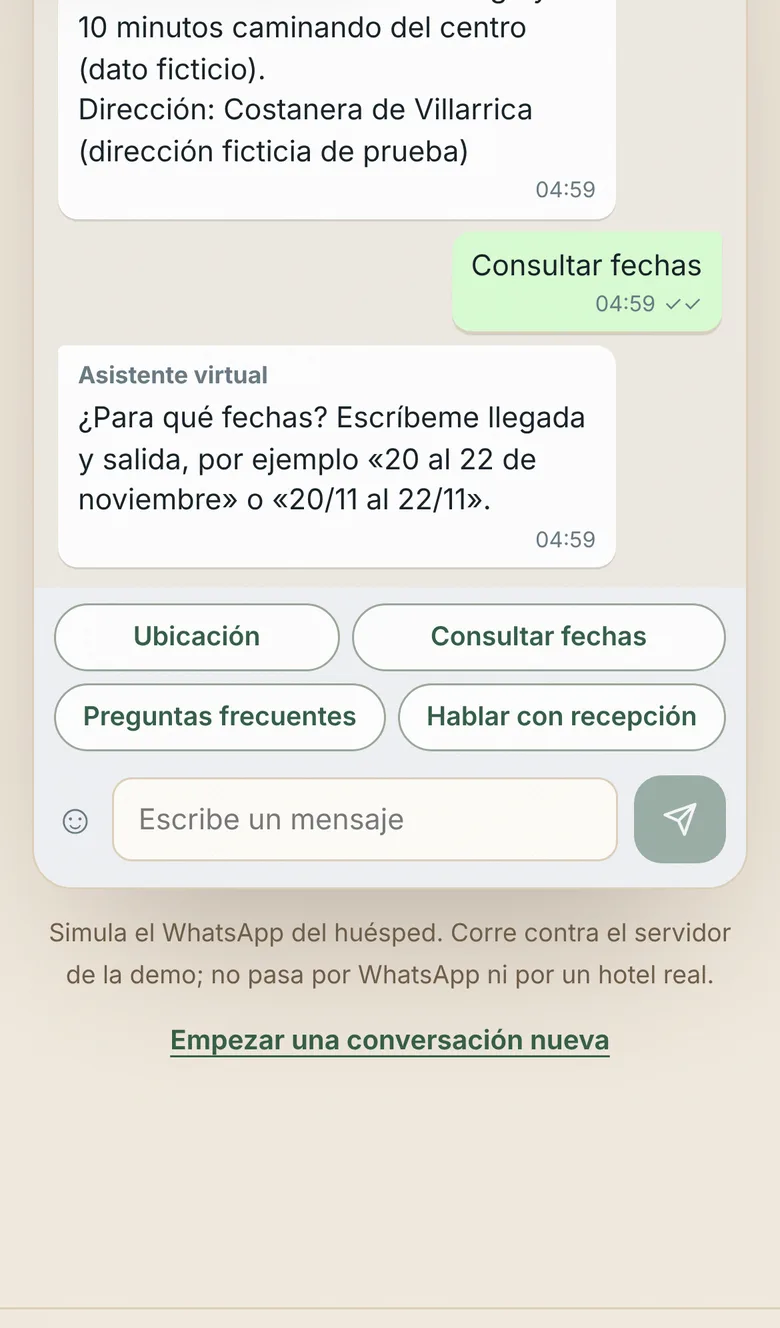
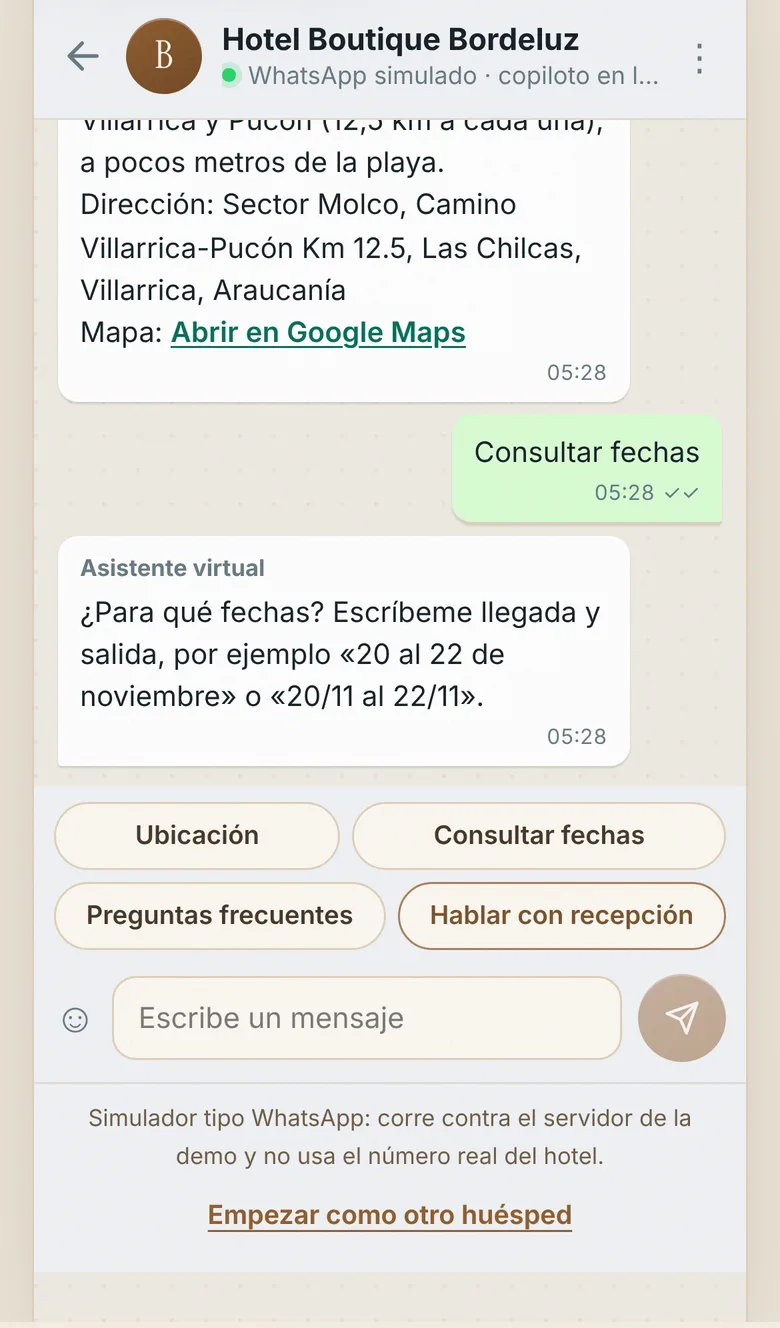
docs(eva3): guion, API y verificación con el hotel de la portada
Actualiza el guion (parte en «Probar la demo»), el contrato de la API,
la verificación D01–D10 (incluye la restauración de los puentes y los
conteos reales) y las capturas de la demo.

diff --git a/docs/eva3/verificacion-demo.md b/docs/eva3/verificacion-demo.md
@@ -1,46 +1,50 @@
 # Verificación de la demo · EVA 3 (D01–D10)
 
-Fecha de la verificación: 8-nov-2026. Rama `refactor/ux-logic-cleanup`. Alojamiento: **Hostería Demo
-Villarrica** (ficticio). Todos los datos de esta verificación son de prueba.
+Fecha: 8-nov-2026. Rama `refactor/ux-logic-cleanup`. La demo usa la misma marca y los mismos datos que la portada:
+**Hotel Boutique Bordeluz** (`data/hotel.yaml`) y el **PMS simulado** (`pms_mock`). Los huéspedes son ficticios y
+los cupos y precios del PMS son simulados.
 
 **Criterio central:** un huésped crea una consulta válida, recepción la toma con todo su contexto y una
 respuesta escrita por recepción llega al hilo original, con estados, persistencia y mediciones coherentes.
-**Resultado: cumple** en el arranque local con flujo guiado (detalle abajo). Lo no verificado está marcado.
+**Resultado: cumple** en el arranque local con flujo guiado. Lo no verificado está marcado al final de la sección 2.
 
-Tipos de evidencia: **[código]** lectura de código · **[auto]** prueba automatizada · **[UI]** recorrido real
-en navegador (Chromium con Playwright, ventanas de escritorio 1440 px y teléfono iPhone 13) · **[HTTP]**
-llamadas a las rutas locales.
+Evidencia: **[código]** lectura de código · **[auto]** prueba automatizada · **[UI]** recorrido real en
+navegador (Chromium con Playwright, escritorio 1440 px y iPhone 13) · **[HTTP]** llamadas a las rutas locales.
 
 ## 1. Primer punto de falla (antes de los cambios)
 
 Arranque: copiloto con `uv run uvicorn` en `:8100`, `AI_MODE=off` (Docker sin daemon en el entorno).
 Caso canónico por `POST /api/demo/chat` **[HTTP]**:
 
-1. «¿Dónde queda la hostería?» → respuesta de ubicación (datos del hotel real del dataset, no ficticio).
+1. «¿Dónde queda el hotel?» → respuesta de ubicación correcta.
 2. «Quiero consultar del 20 al 22 de noviembre para 2 adultos» → **falla**: «No tengo ese dato publicado.
-   Para confirmarlo, escribe a recepción: +56 9… o comercial@…» (contacto real del hotel).
+   Para confirmarlo, escribe a recepción: +56 9… o comercial@…», es decir, el contacto real del hotel.
 3. «Hablar con recepción» → misma respuesta: **no deriva**. `GET /api/panel/queue` muestra la conversación en
    `step: ai`, sin reloj ni solicitud.
 
 Causa: `/api/demo/chat` sin IA usaba `guided.guided_reply` (solo FAQ y ubicación), no el motor guiado
-`flow.Copiloto` que sí captura fechas y deriva. La demo y el canal de Chatwoot eran dos lógicas distintas.
+`flow.Copiloto` que sí captura fechas, lee el PMS y deriva. La demo y el canal de Chatwoot eran dos lógicas.
 
 ## 2. Matriz antes / después
 
 | ID | Antes | Después | Evidencia (después) |
 |---|---|---|---|
-| **D01** Arranque reproducible | Parcial: `make up` exige Docker; sin daemon no hay ruta documentada | **Cumple** sin Docker; Docker **no verificable** aquí | [UI] `./scripts/demo-local.sh --limpio` levanta `:8100` y `:8080`; `/health` ok; `demo.html` 200. `docker compose … config -q` válido. `make up` no se ejecutó (sin daemon). |
-| **D02** Ubicación, FAQ, «Hablar con recepción» | Parcial: ubicación sí; FAQ de otro hotel; «Hablar con recepción» no deriva | **Cumple** | [auto] `test_location_and_faq_are_answered_before_asking_for_stay_data`, `test_talk_to_reception_works_without_dates_and_pending_fields_are_explicit`. [UI] atajos visibles; respuesta «Cerca de la costanera de Villarrica». |
-| **D03** Fechas invertidas y corrección | Falta: no capturaba fechas | **Cumple** | [auto] `test_inverted_dates_get_a_clear_error_and_the_guest_does_not_repeat_the_adults`, `test_guest_can_correct_the_summary_before_sending`. [UI] «22 al 20 de noviembre · 2 adultos» → error; «20–22 nov» → solo pide niños. |
-| **D04** Solicitud canónica localizable | Falta: sin solicitud ni ID | **Cumple** | [auto] `test_canonical_case_end_to_end`. [UI] VLL-001 con 20–22 nov, 2 adultos, 0 niños, canal, motivo, ingreso y espera. Fila persistida en SQLite (`requests`). |
-| **D05** Tomar, responder, recargar | Parcial: respuesta sin responsable ni estados | **Cumple** | [auto] mismo test + `test_the_bot_stays_silent_while_reception_owns_the_case`. [UI] Tomar → En atención (Sofía); respuesta → Respondida; huésped ve «Sofía · Recepción»; reserva «Pendiente de confirmación»; recarga muestra lo mismo. |
-| **D06** Reintentos sin duplicar | Falta: sin llave de idempotencia | **Cumple** | [auto] `test_a_retried_guest_message_is_processed_once`, `test_a_retried_staff_reply_is_sent_once`. [UI] se cortó la respuesta de red tras procesar: «Reintentar» dejó 1 mensaje y 1 solicitud. |
-| **D07** Fuera de turno | Falta en la demo | **Cumple** | [auto] `test_off_shift_request_is_saved_with_the_next_opening_and_kept_out_of_the_target`. [UI] con la hora real (≈04:50 en Chile): «…te responderá por aquí desde las 08:00 del domingo 8 de noviembre»; bandeja marca «Fuera de turno»; sin reloj de 180 s. |
-| **D08** Eventos y cálculo | Parcial: el reloj partía al derivar; demo sin eventos por hilo | **Cumple** | [auto] `test_the_clock_starts_when_the_commercial_query_enters_and_an_ack_does_not_stop_it`, `test_a_missed_target_is_recorded_as_a_breach_in_the_demo_thread`, `test_faq_latency_is_reported_per_question`, `test_sla_starts_when_the_commercial_query_entered_not_at_handoff`. [UI] «Medición de esta solicitud» lista los eventos con su desfase. |
-| **D09** Móvil, escritorio, otra sesión | Parcial | **Cumple** | [UI] iPhone 13 y 1440/1280 px sin desbordes; otra sesión de huésped no ve nada ajeno; la vista `?vista=huesped` nunca llamó a `/api/panel/*` ni abrió sesión de recepción. [auto] `test_guest_sessions_are_isolated`, `test_demo_isolation.py`. |
-| **D10** PMS simulado (fase 2, opcional) | Parcial: PMS simulado fuera del recorrido de la demo | **Cumple** con inventario de prueba | [auto] `test_inventory_unknown_dates_or_outage_never_report_availability`. [UI] lectura con origen y hora, «preliminar»; fechas sin dato o «Simular caída» → «cupo desconocido», el caso queda en recepción. El servicio `pms_mock` no participa en `/demo`. |
+| **D01** Arranque reproducible | Parcial: `make up` exige Docker; sin daemon no hay ruta documentada | **Cumple** sin Docker; Docker **no verificable** aquí | [UI] `make demo-local LIMPIO=1` levanta portada `:8080`, copiloto `:8100` y PMS `:8200`; `/`, `/demo`, `/privacidad`, `/api/demo/status` y los `/health` responden 200. `docker compose … config -q` válido en los perfiles full, whatsapp, beds24 e ia. |
+| **D02** Ubicación, FAQ, «Hablar con recepción» | Parcial: «Hablar con recepción» no deriva y ofrece el número real | **Cumple** | [auto] `test_location_and_faq_are_answered_before_asking_for_stay_data`, `test_talk_to_reception_works_without_dates_and_pending_fields_are_explicit`. [UI] atajos visibles; ubicación con enlace «Abrir en Google Maps». |
+| **D03** Fechas invertidas y corrección | Falta: no capturaba fechas | **Cumple** | [auto] `test_inverted_dates_…`, `test_guest_can_correct_the_summary_before_sending`. [UI] «22 al 20 de noviembre · 2 adultos» → error; «20–22 nov» → solo pide niños. |
+| **D04** Solicitud canónica localizable | Falta: sin solicitud ni ID | **Cumple** | [auto] `test_canonical_case_end_to_end`. [UI] BDL-001 con 20–22 nov, 2 adultos, 0 niños, canal, motivo, ingreso y espera; fila persistida en SQLite (`requests`). |
+| **D05** Tomar, responder, recargar | Parcial: respuesta sin responsable ni estados | **Cumple** | [auto] mismo test + `test_the_bot_stays_silent_while_reception_owns_the_case`. [UI] Tomar → En atención (Sofía); respuesta → Respondida; el huésped ve «Sofía · Recepción»; reserva «Pendiente de confirmación»; la recarga muestra lo mismo. |
+| **D06** Reintentos sin duplicar | Falta: sin llave de idempotencia | **Cumple** | [auto] `test_a_retried_guest_message_is_processed_once`, `test_a_retried_staff_reply_is_sent_once`. [UI] se cortó la respuesta de red después de procesar: «Reintentar» dejó 1 mensaje y 1 solicitud. |
+| **D07** Fuera de turno | Falta en la demo | **Cumple** | [auto] `test_off_shift_request_is_saved_with_the_next_opening_and_kept_out_of_the_target`. [UI] con la hora real (≈05:25 en Chile): «…te responderá por aquí desde las 08:00 del domingo 8 de noviembre»; la bandeja marca «Fuera de turno»; sin reloj de 180 s. |
+| **D08** Eventos y cálculo | Parcial: el reloj partía al derivar; la demo no tenía eventos por hilo | **Cumple** | [auto] `test_the_clock_starts_when_the_commercial_query_enters_and_an_ack_does_not_stop_it`, `test_a_missed_target_is_recorded_as_a_breach_in_the_demo_thread`, `test_faq_latency_is_reported_per_question`, `test_sla_starts_when_the_commercial_query_entered_not_at_handoff`. [UI] «Medición de esta solicitud» lista los eventos con su desfase. |
+| **D09** Móvil, escritorio, otra sesión | Parcial | **Cumple** | [UI] iPhone 13, 1280 y 1440 px sin desbordes; otra sesión de huésped no ve nada ajeno; la vista `?vista=huesped` nunca llamó a `/api/panel/*` ni abrió sesión de recepción. [auto] `test_guest_sessions_are_isolated`, `test_demo_isolation.py`. |
+| **D10** PMS simulado (fase 2) | Parcial: el PMS no participaba en la demo | **Cumple** | [auto] `test_guest_can_correct_the_summary_…` (lectura con hora en el resumen), `test_a_pms_outage_never_reports_availability_and_stays_with_reception`. [UI] el resumen del bot y «Consultar el PMS» de recepción muestran origen, hora y «preliminar»; caída real o simulada → «cupo desconocido» y el caso queda en recepción. |
 
-Versión estática (portfolio): [auto] `scripts/test-static-demo.mjs` y [UI] caso canónico en dos pestañas de
+Coherencia con la portada: [auto] `the demo keeps the landing name, brand and palette` (misma marca y hotel,
+colores solo desde los tokens de la portada). [UI] desde la portada, «Probar la demo» abre `/demo` con la misma
+marca, el mismo hotel y el acento bronce, sin errores de consola.
+
+Versión estática (portfolio): [auto] `scripts/test-static-demo.mjs`. [UI] caso canónico en dos pestañas de
 `dist/` con **cero** peticiones `/api` a la red.
 
 ### No verificado en este entorno
@@ -48,29 +52,32 @@ Versión estática (portfolio): [auto] `scripts/test-static-demo.mjs` y [UI] cas
 - `make up` / `make up-full` (Docker sin daemon) y la bandeja real de **Chatwoot**.
 - Modo con IA (`DEMO_AI=1`): sin `LLM_API_KEY`. Sus pruebas con modelo guionado siguen en verde.
 - Voz y micrófono: la nueva `/demo` no expone la llamada; los endpoints `/api/demo/voice*` siguen con sus pruebas.
-- Escritura en un PMS real (fase 3): fuera de alcance por diseño.
+- Confirmar la reserva en el PMS desde la bandeja de la demo: el panel del PMS no enlaza conversaciones de demo
+  (ids negativos). Fase siguiente si se quiere mostrar en vivo.
 
 ## 3. Cambios y su motivo
 
 | Cambio | Motivo |
 |---|---|
 | `copiloto/demo_channel.py`: canal con la interfaz de Chatwoot que escribe en la transcripción de la demo | Una sola fuente de verdad: la demo usa **el mismo motor guiado** que el canal real. |
-| Tabla `requests` (`events.py`, `store.py`) con estado de atención y de reserva por separado | Solicitud vinculada al hilo, con ID (VLL-NNN), responsable y estados persistentes. |
-| `/api/panel/requests…` (listar, tomar, responder, cerrar, inventario) | Bandeja con la acción principal según el estado; solo sesiones de demo escriben en la demo. |
+| Tabla `requests` con estado de atención y de reserva por separado | Solicitud vinculada al hilo, con ID (BDL-NNN), responsable y estados persistentes. |
+| `/api/panel/requests…` (listar, tomar, responder, cerrar, consultar el PMS) | Bandeja con la acción principal según el estado; solo las sesiones de demo escriben en la demo. |
 | Llaves de idempotencia (`client_message_id`, `client_id`) | D06: un reintento no duplica. |
-| Reloj desde `commercial_at` (ingreso de la consulta comercial); acuse ≠ respuesta; `sla_breached` | D08 según la especificación de la EVA 3. |
-| `FlowStyle` en `flow.py`: atajos fijos, resumen con «Enviar / Corregir», «Disponibilidad por verificar» | Captura validada y corregible; fase 1 sin afirmar cupos. El canal de Chatwoot conserva su presentación. |
-| Fechas: «20–22 nov», abreviaturas, rangos invertidos; mensajes con fechas = consulta comercial | D03 y «reutiliza lo que el huésped ya dijo». |
+| Reloj desde `commercial_at`; acuse ≠ respuesta; evento `sla_breached` | D08 según la especificación de la EVA 3. |
+| `FlowStyle`: atajos fijos, resumen con lectura del PMS y «Enviar / Corregir» | Captura validada y corregible, y el paso 03 que promete la portada (PMS con sello de hora). |
+| Fechas: «20–22 nov», abreviaturas, rangos invertidos; un mensaje con fechas es consulta comercial | D03 y «reutiliza lo que el huésped ya dijo». |
 | `SHIFT_OVERRIDE` y escenario por sesión; próximo horario con día y fecha | D07 reproducible sin cambiar la hora. |
-| `data/hosteria-demo.yaml` + `demo_inventory.py` (inventario de prueba) | Alojamiento ficticio y dato de inventario que respalda «Hay una habitación doble…». |
-| Worker del SLA enruta conversaciones de demo a su propio hilo | Antes llamaba a Chatwoot con ids de demo. |
+| El worker del SLA enruta las conversaciones de demo a su propio hilo | Antes llamaba a Chatwoot con ids de demo. |
 | Purga de la demo al vencer su sesión (`purge_demo`) | La transcripción de demo no esperaba la retención de 90 días. |
-| `/demo` nueva (`demo.html`, `demo-*.js`, `demo-split.css`); se retiran `demo.js`, `console.js`, `voice.js`, `demo-journey.js`, `demo-console.css` | Pedido explícito: rediseñar la demo según la referencia. La portada no cambia. |
-| `static-demo.js` reescrito con el mismo contrato | El build estático seguía emulando la API anterior. Ya no copia un `config.js` local. |
-| `scripts/demo-local.sh`, `make demo-local` | Arranque sin Docker, con escenario limpio. |
+| `/demo` nueva con la marca, el marco y los tokens de la portada | Pedido explícito: la demo se basa en el diseño, los colores y el nombre de la portada. |
+| Portada: 10 líneas de texto (pasos 02, 04 y 05, «Hace», cinta y enlace a la bandeja) | Esas frases contradecían la demo (p. ej. «la derivación… sin notificar al equipo»). Diseño intacto. |
+| `static-demo.js` reescrito con el mismo contrato y el mismo hotel | El build estático emulaba la API anterior; ya no copia un `config.js` local. |
+| `scripts/demo-local.sh`, `scripts/serve-landing.py`, `make demo-local` | Arranque sin Docker con PMS simulado, URLs limpias y `/privacidad` como en nginx. |
+| Se restauran `pms_bridge`, `wa_bridge` y el modelo local | Lo pidió la revisión de la PR #13: retirarlos va en una PR de deprecación aparte. |
 
-Pruebas: copiloto **452** (436 previas + 16 nuevas en `test_demo_requests.py`), PMS **47**, interfaz **14**
-(`node --test scripts/*.mjs`, ahora todas en CI). `ruff` sin hallazgos.
+Pruebas: copiloto **446** (incluye 16 de `test_demo_requests.py`), PMS simulado **47**, `pms_bridge` **16**,
+`wa_bridge` **59**, interfaz **16** (`node --test scripts/*.mjs`, todas en CI) y `model_eval --fake` ok. `ruff`
+sin hallazgos.
 
 ## 4. Arranque y escenario limpio
 
@@ -78,18 +85,18 @@ Pruebas: copiloto **452** (436 previas + 16 nuevas en `test_demo_requests.py`), 
 make demo-local LIMPIO=1
 ```
 
-Abre `http://localhost:8080/demo.html?vista=huesped` y `…?vista=recepcion` (o `demo.html` en vista partida).
-Con Docker: `make up` y `http://localhost:8080/demo`. Las credenciales externas (IA, Chatwoot) no hacen falta;
-la sesión de recepción se firma con un secreto local generado en `.demo-local/`.
+Abre `http://localhost:8080` y pulsa **Probar la demo**, o directamente `http://localhost:8080/demo?vista=huesped`
+y `…?vista=recepcion`. Con Docker: `make up` y `http://localhost:8080/demo`. No hacen falta credenciales
+externas: los secretos locales se generan en `.demo-local/`.
 
-Volver al escenario limpio: `make demo-local LIMPIO=1` (borra solo `.demo-local/copiloto.sqlite`).
+Volver al escenario limpio: `make demo-local LIMPIO=1` (borra solo las bases de `.demo-local/`).
 Guion de presentación: [docs/guion-demo.md](../guion-demo.md).
 
 ## 5. Trabajo académico pendiente (lo hace el equipo)
 
 La implementación aporta evidencia técnica; lo siguiente se acredita por separado y con datos reales.
 
-1. **Guardar V1.** Etiqueta el estado actual (`git tag eva3-v1`) y guarda capturas de `docs/img/02-demo.webp`
+1. **Guardar V1.** Etiqueta el estado actual (`git tag eva3-v1`) y guarda las capturas `docs/img/02-demo.webp`
    a `04-recepcion.webp`. Ese es el prototipo que se testea primero.
 2. **Primera ronda.** Con [guion-sesion.md](testeo/guion-sesion.md): al menos una persona en rol huésped y una en
    rol recepción (idealmente de un alojamiento de Villarrica). Tareas: ubicación, consulta de fechas con un
@@ -97,15 +104,14 @@ La implementación aporta evidencia técnica; lo siguiente se acredita por separ
    reales (los muestra la ficha), resultado y dificultades. **No uses los tiempos de esta verificación**.
 3. **Matriz CDM.** Vuelca cualidades, debilidades y mejoras en [matriz-cim.md](testeo/matriz-cim.md), por
    participante y rol.
-4. **Ajustar a V2.** Elige cambios justificados por la matriz (no por gusto) y regístralos en
-   [registro-de-iteraciones.md](registro-de-iteraciones.md) como iteración nueva: problema observado → cambio →
-   cómo se verificará.
-5. **Segunda ronda** con el mismo guion y compara tiempos y errores contra la primera.
+4. **Ajustar a V2.** Elige cambios justificados por la matriz y regístralos en
+   [registro-de-iteraciones.md](registro-de-iteraciones.md) como una iteración nueva: problema observado →
+   cambio → cómo se verificará.
+5. **Segunda ronda** con el mismo guion; compara tiempos y errores contra la primera.
 6. **Conectar hallazgos:** cada debilidad observada debe aparecer en el [storyboard](testeo/storyboard.html)
    (escena afectada), en el [mock-up](testeo/mockup.html) iterado (antes/después) y, si toca tiempos de
    respuesta, temporada alta, privacidad o costos, en el **PESTAL** profundizado.
 7. **Estado del arte y defensa.** La comparación con Chatwoot, HiJiffy, Chattigo, Rasa y Dialogflow y la defensa
    individual se redactan con fuentes citadas y con los resultados de las rondas, no con esta verificación.
 
-Los datos de ejemplo (VLL-001, Sofía, 20–22 nov, 00:42) son ilustrativos: identifícalos así en cualquier
-entregable.
+Los datos de ejemplo (BDL-001, Sofía, 20–22 nov) son ilustrativos: identifícalos así en cualquier entregable.

diff --git a/docs/guion-demo.md b/docs/guion-demo.md
@@ -1,17 +1,18 @@
 # Guion de la demo en vivo (EVA 3)
 
-Cinco a siete minutos. Un solo caso de principio a fin, visto desde los dos roles: el huésped consulta,
-el copiloto prepara la solicitud, recepción la toma con el contexto y responde en el mismo hilo.
+Cinco a siete minutos. Un solo caso de principio a fin, visto desde los dos roles y con la misma marca de la
+portada: el huésped consulta al **Hotel Boutique Bordeluz**, el copiloto lee el **PMS simulado** con hora de
+lectura y deriva con contexto; recepción toma la solicitud y responde en el mismo hilo.
 
-Todo es de prueba: **Hostería Demo Villarrica** es un alojamiento ficticio; ubicación, cupos y
-conversaciones son simulados. El asistente nunca confirma una reserva.
+Datos de prueba: los huéspedes son ficticios y los cupos y precios del PMS son simulados. El asistente nunca
+confirma una reserva y nunca usa el número real del hotel.
 
 ## Un día antes
 
 Elige un arranque y pruébalo completo una vez:
 
 ```bash
-make demo-local LIMPIO=1      # sin Docker: copiloto con uv (:8100) y portada (:8080)
+make demo-local LIMPIO=1      # sin Docker: portada (:8080), copiloto (:8100) y PMS simulado (:8200)
 ```
 
 o, con Docker:
@@ -29,32 +30,33 @@ make ui-test     # pruebas de la interfaz de /demo (node --test)
 
 Si algo falla, no se presenta: primero se arregla. El recorrido completo está automatizado en
 `copiloto/tests/test_demo_requests.py` (caso canónico, fechas invertidas, reintentos, fuera de turno, meta
-vencida, inventario desconocido).
+vencida, PMS caído).
 
 ## Treinta minutos antes
 
 1. Arranca con escenario limpio: `make demo-local LIMPIO=1` (o `make reset` + `make up` en Docker).
-2. Abre **dos ventanas** del navegador, una al lado de la otra:
-   - Huésped: `http://localhost:8080/demo.html?vista=huesped` (o `/demo?vista=huesped` con Docker).
-     Si puedes, en el modo teléfono de las herramientas de desarrollo.
-   - Recepción: `http://localhost:8080/demo.html?vista=recepcion`. Entra como **Sofía**.
-3. En la ventana del huésped, en **Turno de recepción**, elige **Simular en turno** (la demo usa la hora de
+2. Abre la portada (`http://localhost:8080`) y deja lista la pestaña: el recorrido parte en **Probar la demo**.
+3. Para presentar en **dos ventanas**, una al lado de la otra:
+   - Huésped: `http://localhost:8080/demo?vista=huesped` (si puedes, en modo teléfono).
+   - Recepción: `http://localhost:8080/demo?vista=recepcion`. Entra como **Sofía**.
+4. En la ventana del huésped, en **Turno de recepción**, elige **Simular en turno** (la demo usa la hora de
    Chile; fuera de 08:00–22:00 el caso sería «fuera de turno»).
-4. Si una sola pantalla es más cómoda, usa `/demo` en **Vista partida**: chat a la izquierda y bandeja a la
-   derecha, mismos datos.
+5. En una sola pantalla basta con `/demo` en **Vista partida**: el mismo marco del hero de la portada, con el
+   chat a la izquierda y la bandeja a la derecha.
 
 ## Recorrido (orden sugerido)
 
 | # | Qué haces | Qué señalas |
 |---|---|---|
-| 1 | Huésped escribe **«¿Dónde queda la hostería?»** | Respuesta aprobada: «Cerca de la costanera de Villarrica». La ubicación y las FAQ se responden **antes** de pedir datos de estadía. El saludo es un mensaje propio; la FAQ se mide aparte (meta < 10 s). |
+| 0 | En la portada, **Probar la demo** | Misma marca, mismos colores y el mismo marco `copiloto.bordeluz.demo` del hero, ahora en vivo. |
+| 1 | Huésped escribe **«¿Dónde queda el hotel?»** | Ubicación primero (paso 01 de la portada): sector Molco, con enlace al mapa. El saludo es un mensaje propio; la ubicación y las FAQ se miden aparte (meta < 10 s). |
 | 2 | Toca **Consultar fechas** y escribe **«22 al 20 de noviembre · 2 adultos»** | Error entendible: la salida debe ser posterior a la llegada. Los 2 adultos quedan guardados. |
-| 3 | Escribe **«20–22 nov»** y toca **Sin niños** | El bot solo pidió lo que faltaba. Aparece el **resumen** con «Enviar a recepción» y «Corregir». |
-| 4 | Toca **Enviar a recepción** | «Solicitud enviada a recepción. Te responderán por aquí.» con su número (VLL-…) y «Disponibilidad por verificar». Desde ahora el bot deja de contestar este hilo. |
-| 5 | Ventana de recepción: aparece la solicitud **Pendiente de recepción** | ID, fechas, huéspedes, canal, motivo, ingreso, tiempo de espera en vivo y la nota interna de pre-información. Datos faltantes se ven como «Pendiente». |
+| 3 | Escribe **«20–22 nov»** y toca **Sin niños** | El bot pidió solo lo que faltaba. El resumen trae la **lectura del PMS con su hora** (paso 03 de la portada), marcada como preliminar, y los botones «Enviar a recepción» y «Corregir». |
+| 4 | Toca **Enviar a recepción** | «Solicitud enviada a recepción. Te responderán por aquí.» con su número (BDL-…). Desde ahora el bot deja de contestar este hilo (paso 04: deriva con contexto). |
+| 5 | Ventana de recepción: la solicitud llega **Pendiente de recepción** | ID, fechas, huéspedes, canal, motivo, ingreso y espera en vivo con la pastilla de riesgo de la portada (ok → riesgo → fuera de meta). La nota interna es la misma «Pre-información del copiloto» del panel ilustrado en la portada. |
 | 6 | **Tomar solicitud** | Responsable: Sofía. Estado: **En atención**. El reloj **no** se reinicia: corre desde que entró la consulta. |
-| 7 | **Consultar inventario** (Verificar cupo) | Inventario **de prueba**, con origen y hora de lectura, «preliminar»: Habitación Doble, 1 libre. No bloquea cupos. |
-| 8 | **Usar respuesta sugerida** → **Enviar respuesta** | El huésped ve el mensaje firmado «Sofía · Recepción» en el mismo hilo. Recepción ve **Respondida**; la **Reserva** sigue **Pendiente de confirmación**: responder no reserva. |
+| 7 | **Consultar el PMS** (Verificar cupo) | Lectura fresca del PMS simulado, con hora y «preliminar». No bloquea cupos. |
+| 8 | **Usar respuesta sugerida** → **Enviar respuesta** | La sugerencia sale de esa lectura. El huésped ve el mensaje firmado «Sofía · Recepción» en el mismo hilo. Recepción ve **Respondida**; la **Reserva** sigue **Pendiente de confirmación**: responder no reserva (paso 05). |
 | 9 | Recarga ambas ventanas (F5) | El mismo caso, con el mismo responsable y los mismos estados: todo viene del servidor. |
 
 ## Medición (cómo mostrarla)
@@ -65,24 +67,31 @@ En la ficha, **Medición de esta solicitud**:
   primera respuesta marcada como «Respuesta (cuenta para la meta)». Meta: < 180 s en turno.
 - Un **acuse** («Ya te reviso») se envía al huésped pero **no** detiene el reloj: la pertinencia la declara
   quien responde y queda visible en el hilo.
-- La lista de eventos (ingreso, solicitud creada, asignación, primera respuesta) permite recalcular el tiempo a
-  mano. Si vence la meta sin respuesta pertinente, aparece «Meta vencida» y queda registrado.
-- FAQ: latencia de cada respuesta aprobada desde el ingreso del mensaje (meta < 10 s).
+- La lista de eventos (ingreso, lectura del PMS, solicitud creada, asignación, primera respuesta) permite
+  recalcular el tiempo a mano. Si vence la meta sin respuesta pertinente, aparece «Meta vencida» y queda
+  registrado.
+- Ubicación y FAQ: latencia de cada respuesta aprobada desde el ingreso del mensaje (meta < 10 s).
 
 ## Ruta fuera de turno
 
 1. En la ventana del huésped elige **Simular fuera de turno** y toca **Empezar como otro huésped** (el caso
    anterior sigue en la bandeja).
 2. Toca **Hablar con recepción** (o haz una consulta de fechas completa y envíala).
-3. El huésped lee: «Solicitud guardada: N.º VLL-…. Recepción atiende de 08:00 a 22:00 (hora de Chile) y te
+3. El huésped lee: «Solicitud guardada: N.º BDL-…. Recepción atiende de 08:00 a 22:00 (hora de Chile) y te
    responderá por aquí desde las 08:00 del …».
 4. En recepción la solicitud aparece con la marca **Fuera de turno**; su medición dice «no cuenta para la meta».
+
+## PMS sin respuesta (opcional)
+
+En la ficha, marca **Simular caída** y toca **Consultar el PMS**: la bandeja dice «Cupo desconocido» y propone
+un seguimiento honesto. Para mostrarlo desde el huésped, arranca con `SIMULATE_DOWN=1` en el PMS: el resumen dice
+que no pudo consultar y la solicitud entra como «Cupos sin verificar».
 
 ## Separación entre consulta y reserva
 
 Repite al cerrar: el **estado de atención** (Pendiente de recepción → En atención → Respondida) y el **estado
-de reserva** (Pendiente de confirmación) son cosas distintas. El asistente orienta y captura; recepción verifica
-cupos por su procedimiento y confirma explícitamente. La escritura en un PMS real es fase 3.
+de reserva** (Pendiente de confirmación) son cosas distintas. El asistente orienta, lee el PMS y captura;
+recepción verifica cupos y confirma la reserva en el PMS con su token. La escritura en un PMS real es fase 3.
 
 ## Respaldos
 

diff --git a/docs/demo-api.md b/docs/demo-api.md
@@ -4,9 +4,10 @@ La página `/demo` conversa con el copiloto por esta API, sin pasar por Chatwoot
 (configurable en `landing/config.js` como `copilotoUrl`, o la misma origen detrás de nginx). Solo se aceptan
 peticiones desde el origen de la landing (`LANDING_ORIGIN`, por defecto `http://localhost:8080`).
 
-Por defecto la demo corre el **flujo guiado** (`flow.Copiloto`, el mismo motor del canal de Chatwoot) con la
-**Hostería Demo Villarrica** (`data/hosteria-demo.yaml`, ficticia). El motor escribe por `DemoChannel`, que
-guarda todo en la transcripción aislada de la demo: hay una sola fuente de verdad para el hilo y la solicitud.
+Por defecto la demo corre el **flujo guiado** (`flow.Copiloto`, el mismo motor del canal de Chatwoot) con el
+mismo hotel y el mismo PMS simulado que la portada (`data/hotel.yaml`, `pms_mock`). El resumen de la consulta
+incluye una lectura preliminar del PMS con su hora. El motor escribe por `DemoChannel`, que guarda todo en la
+transcripción aislada de la demo: hay una sola fuente de verdad para el hilo y la solicitud.
 Con `DEMO_AI=1` y un modelo configurado, el turno lo responde el asistente con IA (sección final).
 
 ## Huésped
@@ -30,9 +31,9 @@ Respuesta 200 (además de `reply`, `mode`, `events`, `quick_replies` y `usage` d
 ```json
 {
   "conversation_id": -1234567,
-  "messages": [{"id": 7, "role": "assistant", "body": "Solicitud enviada a recepción. Te responderán por aquí.\n\nN.º VLL-024 · Disponibilidad por verificar: …",
+  "messages": [{"id": 7, "role": "assistant", "body": "Solicitud enviada a recepción. Te responderán por aquí.\n\nN.º BDL-024 · La lectbilidad por verificar: …",
                 "created_at": 1794122324.4, "options": null, "author": null, "kind": null}],
-  "request": {"code": "VLL-024", "status": "pendiente", "label": "Enviada a recepción · te responderán por aquí",
+  "request": {"code": "BDL-024", "status": "pendiente", "label": "Enviada a recepción · te responderán por aquí",
               "assignee": null, "in_shift": true, "open": true},
   "handled_by": "recepcion",
   "duplicate": false
@@ -52,7 +53,7 @@ conversación: `{"conversation_id": null, "step": null, "messages": [], "request
 ### `GET /api/demo/status`
 
 Agrega `engine` (`guided` | `ai`), `hotel` (`name`, `channel_label`), `menu` (atajos), `shift` (`start`, `end`,
-`timezone`, `in_shift`, `override`, `next_opening`) y `privacy_url` (`/privacidad?alojamiento=demo`).
+`timezone`, `in_shift`, `override`, `next_opening`) y `privacy_url` (`/privacidad`; vacío en la versión estática, que no publica el aviso).
 
 ## Recepción (sesión firmada)
 
@@ -66,7 +67,7 @@ una cookie HttpOnly. Esa sesión **solo** ve y escribe solicitudes de la demo; e
 | `GET /api/panel/requests/{id}` | Detalle: datos, `messages` (con notas internas), `events`, `faq` (latencias), `measurement`, `actions`. |
 | `POST /api/panel/requests/{id}/take` | Asigna a quien llama: **Pendiente de recepción → En atención**. No reinicia el reloj. Otra persona: 409. |
 | `POST /api/panel/requests/{id}/reply` | `{"body": "…", "kind": "answer"\|"ack", "client_id": "…"}`. `answer` deja **Respondida** y, si es la primera, detiene el reloj (`human_first_reply`). `ack` se envía pero no cuenta. Sin tomarla: 409. Con `client_id` repetido: `"duplicate": true`, sin duplicar. |
-| `POST /api/panel/requests/{id}/inventory` | `{"simulate_down": false}`. Lee el **inventario de prueba** del alojamiento ficticio: origen, hora y cupos, preliminar. Fechas sin dato o caída: `ok: false` y nota «cupo desconocido». |
+| `POST /api/panel/requests/{id}/inventory` | `{"simulate_down": false}`. Lee el **PMS simulado**: origen, hora y las 4 opciones más económicas (`more` cuenta el resto), preliminar. PMS caído o `simulate_down`: `ok: false` y nota «cupo desconocido». |
 | `POST /api/panel/requests/{id}/close` | **Cerrada**: el hilo vuelve al asistente; una consulta nueva crea otra solicitud. |
 
 Estados: atención `pendiente`, `en_atencion`, `respondida`, `cerrada`; reserva `pendiente_confirmacion` (y

diff --git a/README.md b/README.md
@@ -63,18 +63,19 @@ Para borrar todo: `make reset` o `./scripts/demo.sh reset` (ambos piden confirma
 
 ## Demo en dos ventanas: huésped y recepción (EVA 3)
 
-`/demo` muestra **una misma consulta desde dos roles**, con un alojamiento ficticio (**Hostería Demo
-Villarrica**, `data/hosteria-demo.yaml`) y el flujo guiado real, sin IA ni credenciales externas:
+`/demo` muestra **una misma consulta desde dos roles**, con la marca, los colores y el marco del hero de la
+portada: el **Hotel Boutique Bordeluz**, el flujo guiado real y el PMS simulado, sin IA ni credenciales externas:
 
 ```bash
-make demo-local LIMPIO=1   # sin Docker: copiloto (:8100) + portada (:8080), escenario limpio
+make demo-local LIMPIO=1   # sin Docker: portada (:8080), copiloto (:8100) y PMS simulado (:8200)
 ```
 
-1. Huésped (`/demo?vista=huesped`, «WhatsApp simulado»): pregunta **¿Dónde queda la hostería?**, toca
-   **Consultar fechas**, escribe **20–22 nov · 2 adultos**, **Sin niños** y **Enviar a recepción**.
+1. Huésped (`/demo?vista=huesped`, «WhatsApp simulado»): pregunta **¿Dónde queda el hotel?**, toca
+   **Consultar fechas**, escribe **20–22 nov · 2 adultos** y **Sin niños**: el resumen trae la lectura del PMS
+   con su hora. Luego **Enviar a recepción**.
 2. Recepción (`/demo?vista=recepcion`, entra como Sofía): la solicitud llega **Pendiente de recepción** con
-   ID, fechas, huéspedes, canal y espera. **Tomar solicitud** → **En atención**; **Consultar inventario**
-   (inventario de prueba) y **Enviar respuesta**.
+   ID (BDL-NNN), fechas, huéspedes, canal y espera. **Tomar solicitud** → **En atención**; **Consultar el
+   PMS** y **Enviar respuesta**.
 3. El huésped ve «Sofía · Recepción» en el mismo hilo; recepción ve **Respondida** y la reserva sigue
    **Pendiente de confirmación**. Recargar ambas vistas muestra el mismo caso.
 
@@ -124,7 +125,7 @@ El recorrido completo, las decisiones y lo que falló en el camino están en el
 make help   # lista todos los comandos
 make test   # pytest de copiloto, pms_mock y los puentes (PMS y WhatsApp)
 make ui-test # tests de la UI de la demo (node --test)
-make demo-local # demo sin Docker (copiloto con uv + portada); LIMPIO=1 parte de cero
+make demo-local # demo sin Docker (portada, copiloto y PMS simulado); LIMPIO=1 parte de cero
 make e2e    # 4 casos reales contra el stack levantado (FAQ, disponibilidad, fuera de turno, PMS caído)
 make smoke  # construye las imágenes y comprueba que arrancan (también corre en CI)
 make backup # respaldo en caliente de Chatwoot y las bases SQLite en backups/
